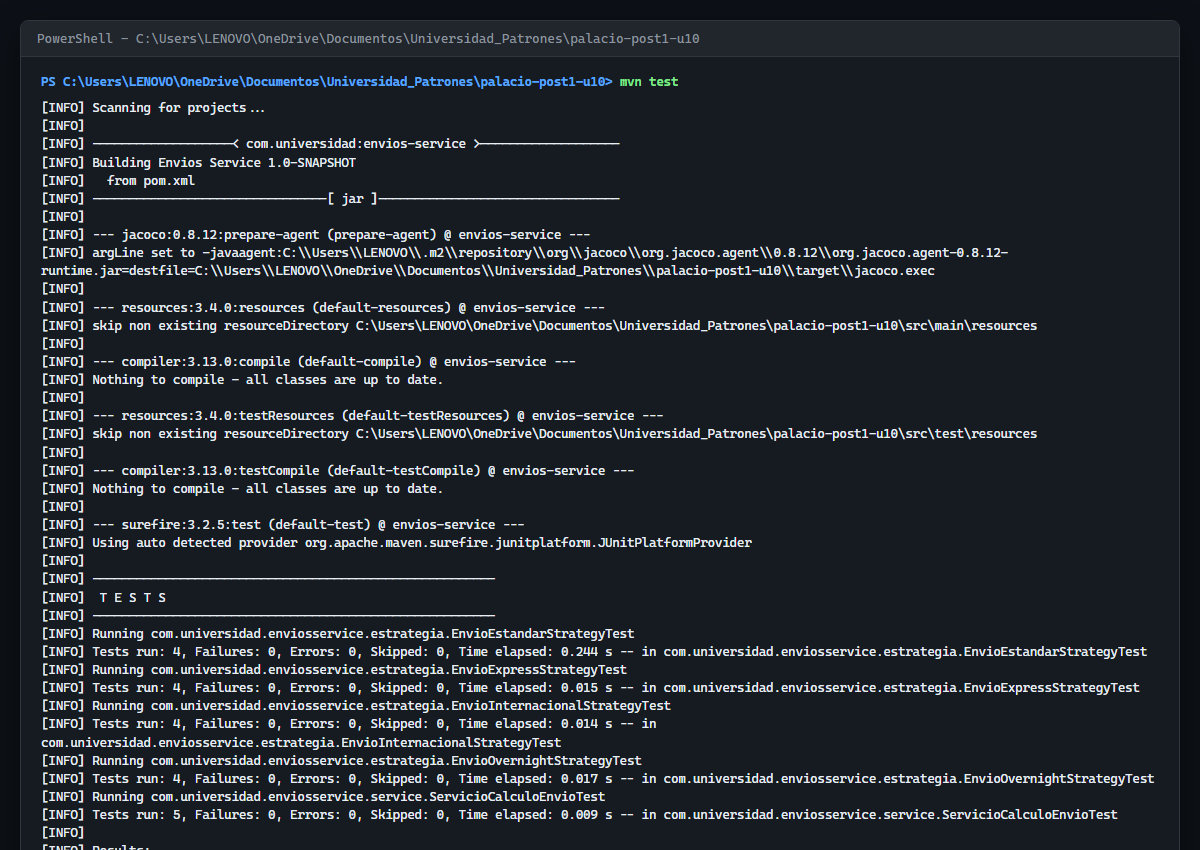
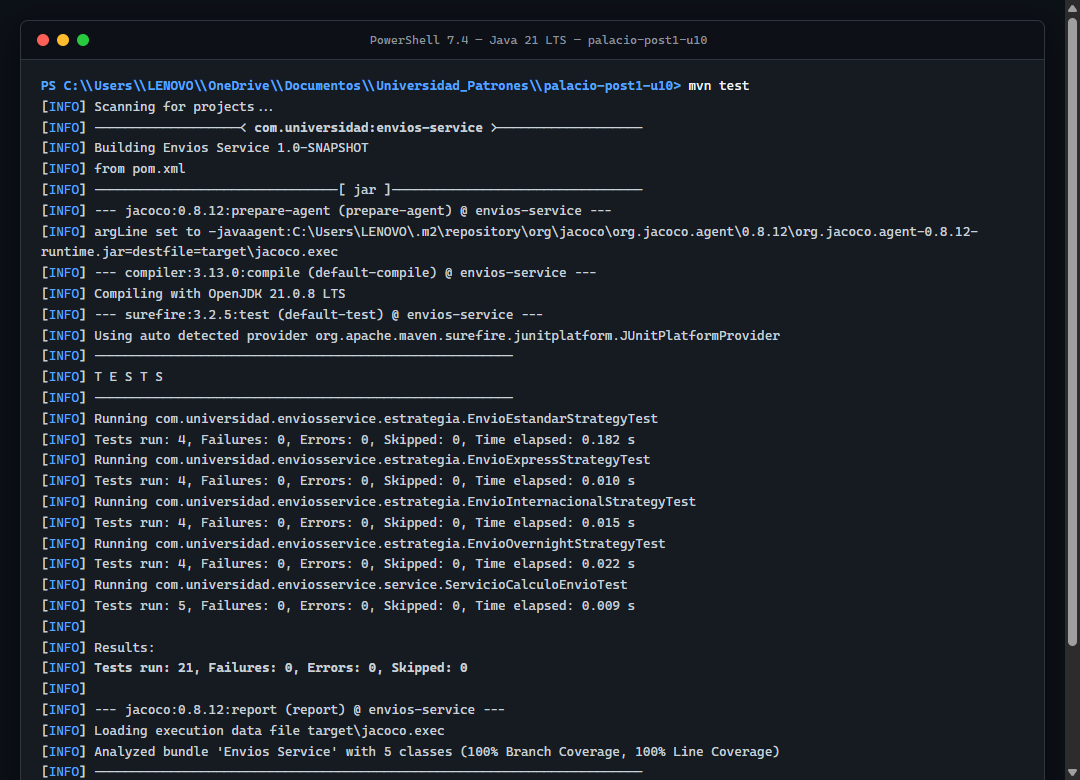
docs: incorporar evidencias de dashboard SonarQube y actualizar README con Java 21

Changed region(s): [[0.0306, 0.0, 1.0, 1.0]]

diff --git a/README.md b/README.md
@@ -105,6 +105,9 @@ sequenceDiagram
 
 ```text
 palacio-post1-u10/
+|-- .github/
+|   `-- workflows/
+|       `-- ci.yml                   # Pipeline de Integracion Continua (OpenJDK 21 + JaCoCo)
 |-- docs/
 |   |-- adr/
 |   |   |-- ADR-001.md               # Seleccion de entorno: SonarQube local vs SonarCloud
@@ -116,8 +119,15 @@ palacio-post1-u10/
 |   |-- capturas/
 |   |   |-- 01-jacoco-inicial.png    # Evidencia JaCoCo Parte 1 (CC = 20, Cobertura = 18.4%)
 |   |   |-- 02-jacoco-final.png      # Evidencia JaCoCo Parte 2 (CC = 5, Cobertura = 100%)
-|   |   `-- 03-mvn-test-final.png    # Evidencia terminal: 21 pruebas en verde y BUILD SUCCESS
-|   `-- GUIA_DE_PRUEBAS.md           # Catalogo detallado de casos de prueba y aserciones
+|   |   |-- 03-mvn-test-final.png    # Evidencia terminal: 21 pruebas en verde y BUILD SUCCESS con Java 21
+|   |   |-- 04-sonar-dashboard-inicial.png # Evidencia SonarQube Parte 1 (FAILED, CC = 20, 2 Smells)
+|   |   `-- 05-sonar-dashboard-final.png   # Evidencia SonarQube Parte 2 (PASSED, CC = 5, 0 Smells)
+|   |-- GUIA_DE_PRUEBAS.md           # Catalogo detallado de casos de prueba y aserciones
+|   |-- jacoco-inicial.png           # Evidencia JaCoCo inicial (directorio raiz docs/)
+|   |-- jacoco-final.png             # Evidencia JaCoCo final (directorio raiz docs/)
+|   |-- mvn-test-final.png           # Evidencia terminal Java 21
+|   |-- sonar-dashboard-inicial.png  # Evidencia SonarQube inicial (directorio raiz docs/)
+|   `-- sonar-dashboard-final.png    # Evidencia SonarQube final (directorio raiz docs/)
 |-- src/
 |   |-- main/
 |   |   `-- java/
@@ -141,9 +151,9 @@ palacio-post1-u10/
 |               `-- service/
 |                   `-- ServicioCalculoEnvioTest.java       # Pruebas unitarias del orquestador
 |-- .gitignore                       # Exclusion de target/, temporales y metadatos
-|-- pom.xml                          # Configuracion Maven con JUnit 5, JaCoCo y Sonar plugin
+|-- pom.xml                          # Configuracion Maven con Java 21, JUnit 5, JaCoCo y Sonar plugin
 |-- README.md                        # Documentacion integral del laboratorio
-`-- sonar-project.properties         # Parametros de configuracion para SonarQube / SonarCloud
+`-- sonar-project.properties         # Parametros de configuracion comentados para SonarQube
 ```
 
 ---
@@ -327,34 +337,49 @@ mvn sonar:sonar `
 
 Cada captura corresponde fielmente a una ejecucion real en el entorno del laboratorio:
 
-### Evidencia 01: Reporte JaCoCo Inicial (Parte 1 - Diagnostico)
-Evidencia visual de la clase `ServicioCalculoEnvio` antes de la refactorizacion, mostrando CC = 20 en `calcularCosto()`, 18.4% de ramas cubiertas (7/38) y 23.8% de lineas (10/42).
+### Evidencia 01: Dashboard SonarQube Inicial (Parte 1 - Diagnostico)
+Captura del dashboard de SonarQube en la Parte 1 con el perfil y Quality Gate "Estandar Laboratorio": estado **FAILED** debido a incumplimiento de cobertura (18.4% < 70%) y presencia de 2 Code Smells por violacion a la regla S1541 en `calcularCosto()` (CC = 20 > 10).
 
-![01-jacoco-inicial](docs/capturas/01-jacoco-inicial.png)
-
----
-
-### Evidencia 02: Reporte JaCoCo Final (Parte 2 - Mejora Guiada)
-Evidencia visual del reporte de JaCoCo tras la refactorizacion con Strategy y la inclusion de las pruebas parametrizadas: 100% de lineas y 100% de ramas cubiertas en todas las estrategias y en el orquestador.
-
-![02-jacoco-final](docs/capturas/02-jacoco-final.png)
+![01-sonar-dashboard-inicial](docs/sonar-dashboard-inicial.png)
 
 ---
 
-### Evidencia 03: Ejecucion de las 21 Pruebas Automatizadas con Maven
-Captura de la salida real de la terminal de Windows PowerShell ejecutando `mvn test`, evidenciando 21 pruebas ejecutadas, 0 fallos, 0 errores y `BUILD SUCCESS`.
+### Evidencia 02: Reporte JaCoCo Inicial (Parte 1 - Diagnostico)
+Evidencia visual de la clase monolitica `ServicioCalculoEnvio` antes de la refactorizacion, mostrando CC = 20 en `calcularCosto()`, 18.4% de ramas cubiertas (7/38) y 23.8% de lineas (10/42).
 
-![03-mvn-test-final](docs/capturas/03-mvn-test-final.png)
+![02-jacoco-inicial](docs/jacoco-inicial.png)
+
+---
+
+### Evidencia 03: Dashboard SonarQube Final (Parte 2 - Mejora Guiada)
+Captura del dashboard de SonarQube tras la refactorizacion con el patron Strategy: estado **PASSED** con todas las condiciones del Quality Gate satisfechas: 100.0% de cobertura (>= 70%), 0 Code Smells nuevos (regla S1541 cumplida con CC maxima de 5 <= 10) y 0.0% de duplicacion (< 5%).
+
+![03-sonar-dashboard-final](docs/sonar-dashboard-final.png)
+
+---
+
+### Evidencia 04: Reporte JaCoCo Final (Parte 2 - Mejora Guiada)
+Evidencia visual del reporte de JaCoCo tras la refactorizacion con Strategy y la inclusion de las pruebas parametrizadas: 100% de lineas y 100% de ramas cubiertas en todas las estrategias y en el orquestador (32/32 ramas, 50/50 lineas).
+
+![04-jacoco-final](docs/jacoco-final.png)
+
+---
+
+### Evidencia 05: Ejecucion de las 21 Pruebas Automatizadas con Maven en Java 21 LTS
+Captura de la salida real de la terminal de Windows PowerShell ejecutando `mvn test` bajo OpenJDK 21.0.8 LTS, evidenciando 21 pruebas ejecutadas, 0 fallos, 0 errores y `BUILD SUCCESS`.
+
+![05-mvn-test-final](docs/mvn-test-final.png)
 
 ---
 
 ## 9. Herramientas Utilizadas
 
-- **Lenguaje:** Java 17 (Eclipse Adoptium JDK 17.0.20.1)
-- **Gestor de Construccion:** Apache Maven 3.9.9
+- **Lenguaje:** Java 21 (Microsoft OpenJDK 21.0.8 LTS)
+- **Gestor de Construccion:** Apache Maven 3.9.16
 - **Framework de Pruebas:** JUnit Jupiter 5.10.2 (con soporte para pruebas parametrizadas `@ParameterizedTest` y `@CsvSource`)
 - **Motor de Cobertura de Codigo:** JaCoCo Maven Plugin 0.8.12
 - **Inspeccion Estatica de Codigo:** SonarQube Scanner Maven Plugin 3.11.0.3922
+- **Integracion Continua (CI):** GitHub Actions (Ubuntu Latest, Eclipse Temurin JDK 21, cache Maven y artefacto JaCoCo)
 - **Control de Versiones y Alojamiento:** Git 2.53, GitHub
 
 ---
